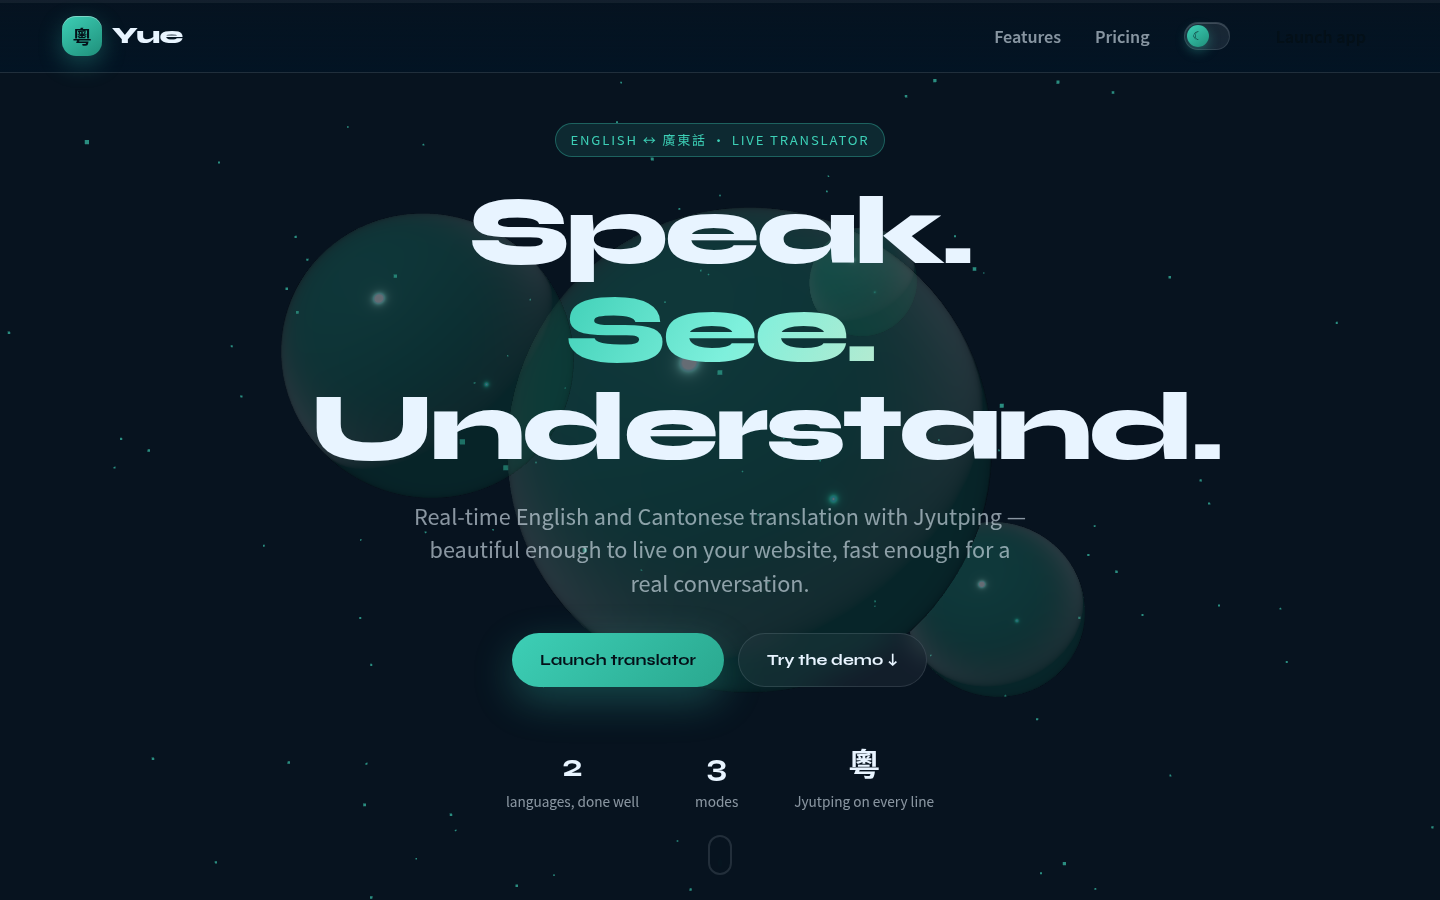
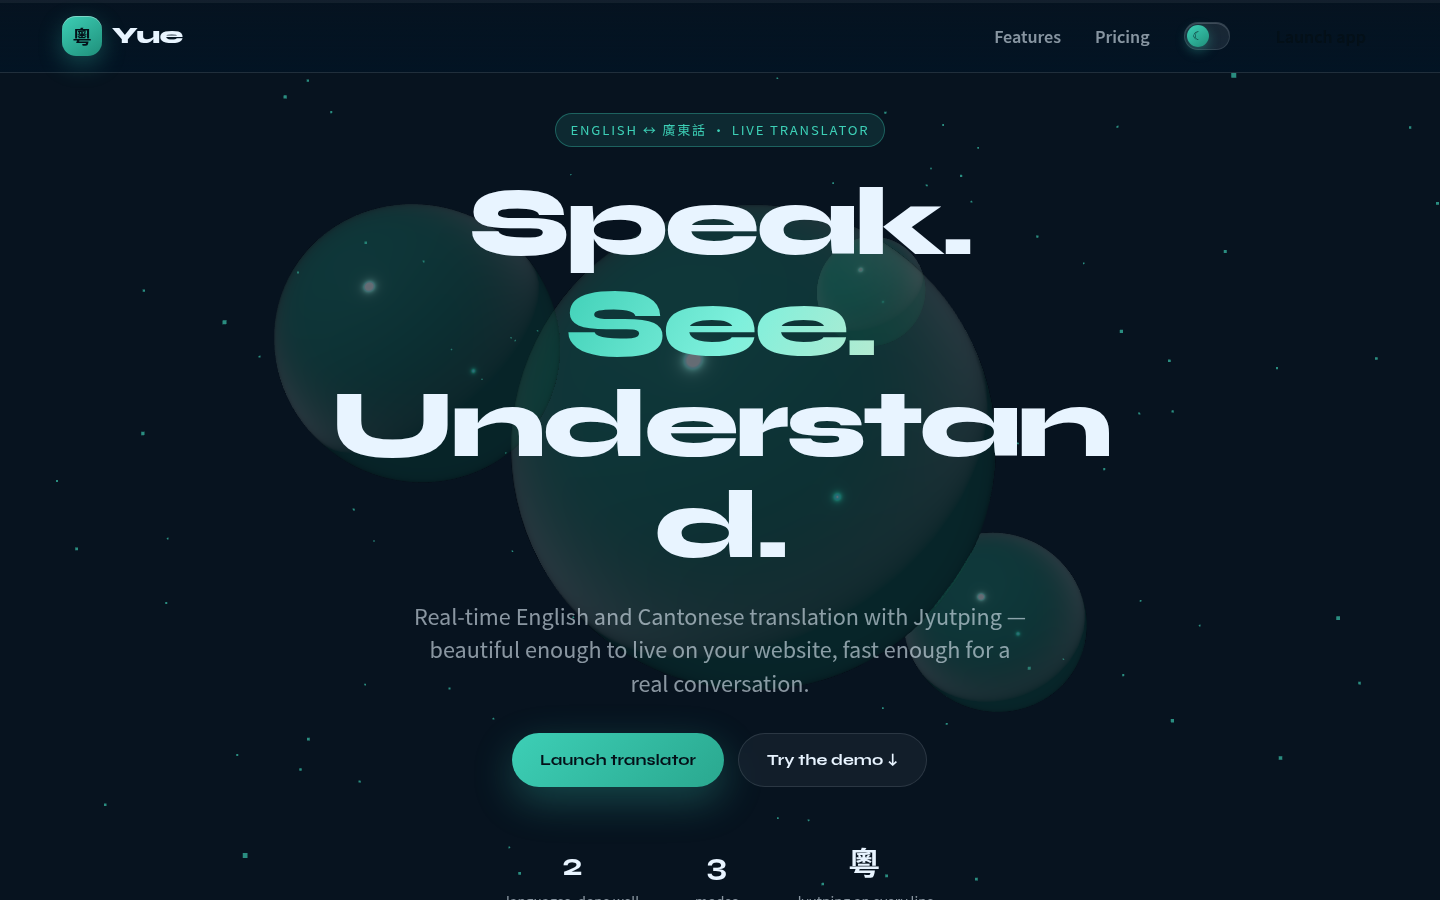
Fix mobile overflow: scale hero type and tighten phone layout
Hero clamp floor was 2.8rem, which overflowed ~390px viewports.
Constrain hero width, stack CTAs, and pad the translator shell on small
screens. Refresh mobile demo shots at 1x DPR.

diff --git a/apps/web/src/landing/landing.css b/apps/web/src/landing/landing.css
@@ -190,6 +190,7 @@
 .ln-hero-inner {
   position: relative;
   z-index: 1;
+  width: 100%;
   max-width: 820px;
 }
 
@@ -219,15 +220,21 @@
   margin-bottom: 26px;
   background: color-mix(in srgb, var(--jade) 12%, transparent);
   backdrop-filter: blur(10px);
+  max-width: 100%;
+  box-sizing: border-box;
 }
 
 .ln-title {
   font-family: var(--font-display);
   font-weight: 800;
-  font-size: clamp(2.8rem, 9vw, 6rem);
-  line-height: 1.02;
+  /* Floor must fit ~320–390px viewports; old 2.8rem min overflowed. */
+  font-size: clamp(2.15rem, 7.2vw + 0.6rem, 6rem);
+  line-height: 1.05;
   letter-spacing: -0.04em;
   margin: 0 0 22px;
+  text-wrap: balance;
+  overflow-wrap: anywhere;
+  max-width: 100%;
 }
 
 .ln-title-accent {
@@ -238,10 +245,10 @@
 }
 
 .ln-sub {
-  font-size: clamp(1.05rem, 2.4vw, 1.35rem);
+  font-size: clamp(1rem, 2.2vw + 0.55rem, 1.35rem);
   line-height: 1.55;
   color: var(--muted);
-  max-width: 620px;
+  max-width: min(620px, 100%);
   margin: 0 auto 34px;
 }
 
@@ -876,11 +883,86 @@
 
 /* ---------- Responsive ---------- */
 @media (max-width: 760px) {
+  .ln-nav {
+    padding: 12px 16px;
+  }
+
+  .ln-nav-links {
+    gap: 10px;
+  }
+
+  .ln-nav-links button:not(.ln-nav-cta) {
+    display: none;
+  }
+
+  .ln-nav-cta {
+    padding: 8px 14px !important;
+    font-size: 0.9rem;
+  }
+
+  .ln-brand-name {
+    font-size: 1.25rem;
+  }
+
+  .ln-hero {
+    padding: 28px 16px 72px;
+    min-height: calc(100dvh - 64px);
+  }
+
+  .ln-eyebrow {
+    font-size: 0.68rem;
+    letter-spacing: 0.1em;
+    padding: 6px 10px;
+    margin-bottom: 18px;
+  }
+
+  .ln-title {
+    font-size: clamp(2.05rem, 9.5vw, 2.65rem);
+    margin-bottom: 16px;
+  }
+
+  .ln-sub {
+    font-size: 0.98rem;
+    margin-bottom: 24px;
+  }
+
+  .ln-hero-cta {
+    flex-direction: column;
+    align-items: stretch;
+    width: min(100%, 320px);
+    margin-inline: auto;
+  }
+
+  .ln-hero-cta .magnetic {
+    width: 100%;
+  }
+
+  .ln-hero-stats {
+    gap: 18px 28px;
+    margin-top: 36px;
+  }
+
+  .ln-hero-stats strong {
+    font-size: 1.55rem;
+  }
+
   .ln-demo {
     grid-template-columns: 1fr;
   }
-  .ln-nav-links button:not(.ln-nav-cta) {
-    display: none;
+
+  .magnetic {
+    padding: 13px 22px;
+    font-size: 0.95rem;
+  }
+
+  .ln-cta-band {
+    margin-inline: 16px;
+    padding: 48px 20px;
+  }
+
+  .pp-hero h1,
+  .ln-h2 {
+    font-size: clamp(1.7rem, 7vw, 2.2rem);
   }
 }
 

diff --git a/apps/web/src/App.css b/apps/web/src/App.css
@@ -3,9 +3,13 @@
   min-height: 100dvh;
   display: flex;
   flex-direction: column;
-  padding: max(12px, env(safe-area-inset-top)) 16px max(16px, env(safe-area-inset-bottom));
+  padding: max(12px, env(safe-area-inset-top)) max(16px, env(safe-area-inset-right))
+    max(16px, env(safe-area-inset-bottom)) max(16px, env(safe-area-inset-left));
   color: var(--ink);
   overflow: hidden;
+  width: 100%;
+  max-width: 100vw;
+  box-sizing: border-box;
 }
 
 .fluid-bg {
@@ -585,6 +589,34 @@
 .muted {
   color: var(--muted);
   font-size: 0.8rem;
+}
+
+@media (max-width: 719px) {
+  .brand-name {
+    font-size: clamp(1.55rem, 7vw, 2rem);
+  }
+
+  .brand-mark {
+    width: 44px;
+    height: 44px;
+    font-size: 1.3rem;
+    border-radius: 14px;
+  }
+
+  .mode-tabs button {
+    padding: 9px 4px;
+    font-size: 0.75rem;
+  }
+
+  .live-btn {
+    padding: 14px 16px;
+    font-size: 1rem;
+  }
+
+  .opts {
+    flex-wrap: wrap;
+    gap: 8px 12px;
+  }
 }
 
 @media (min-width: 720px) {
